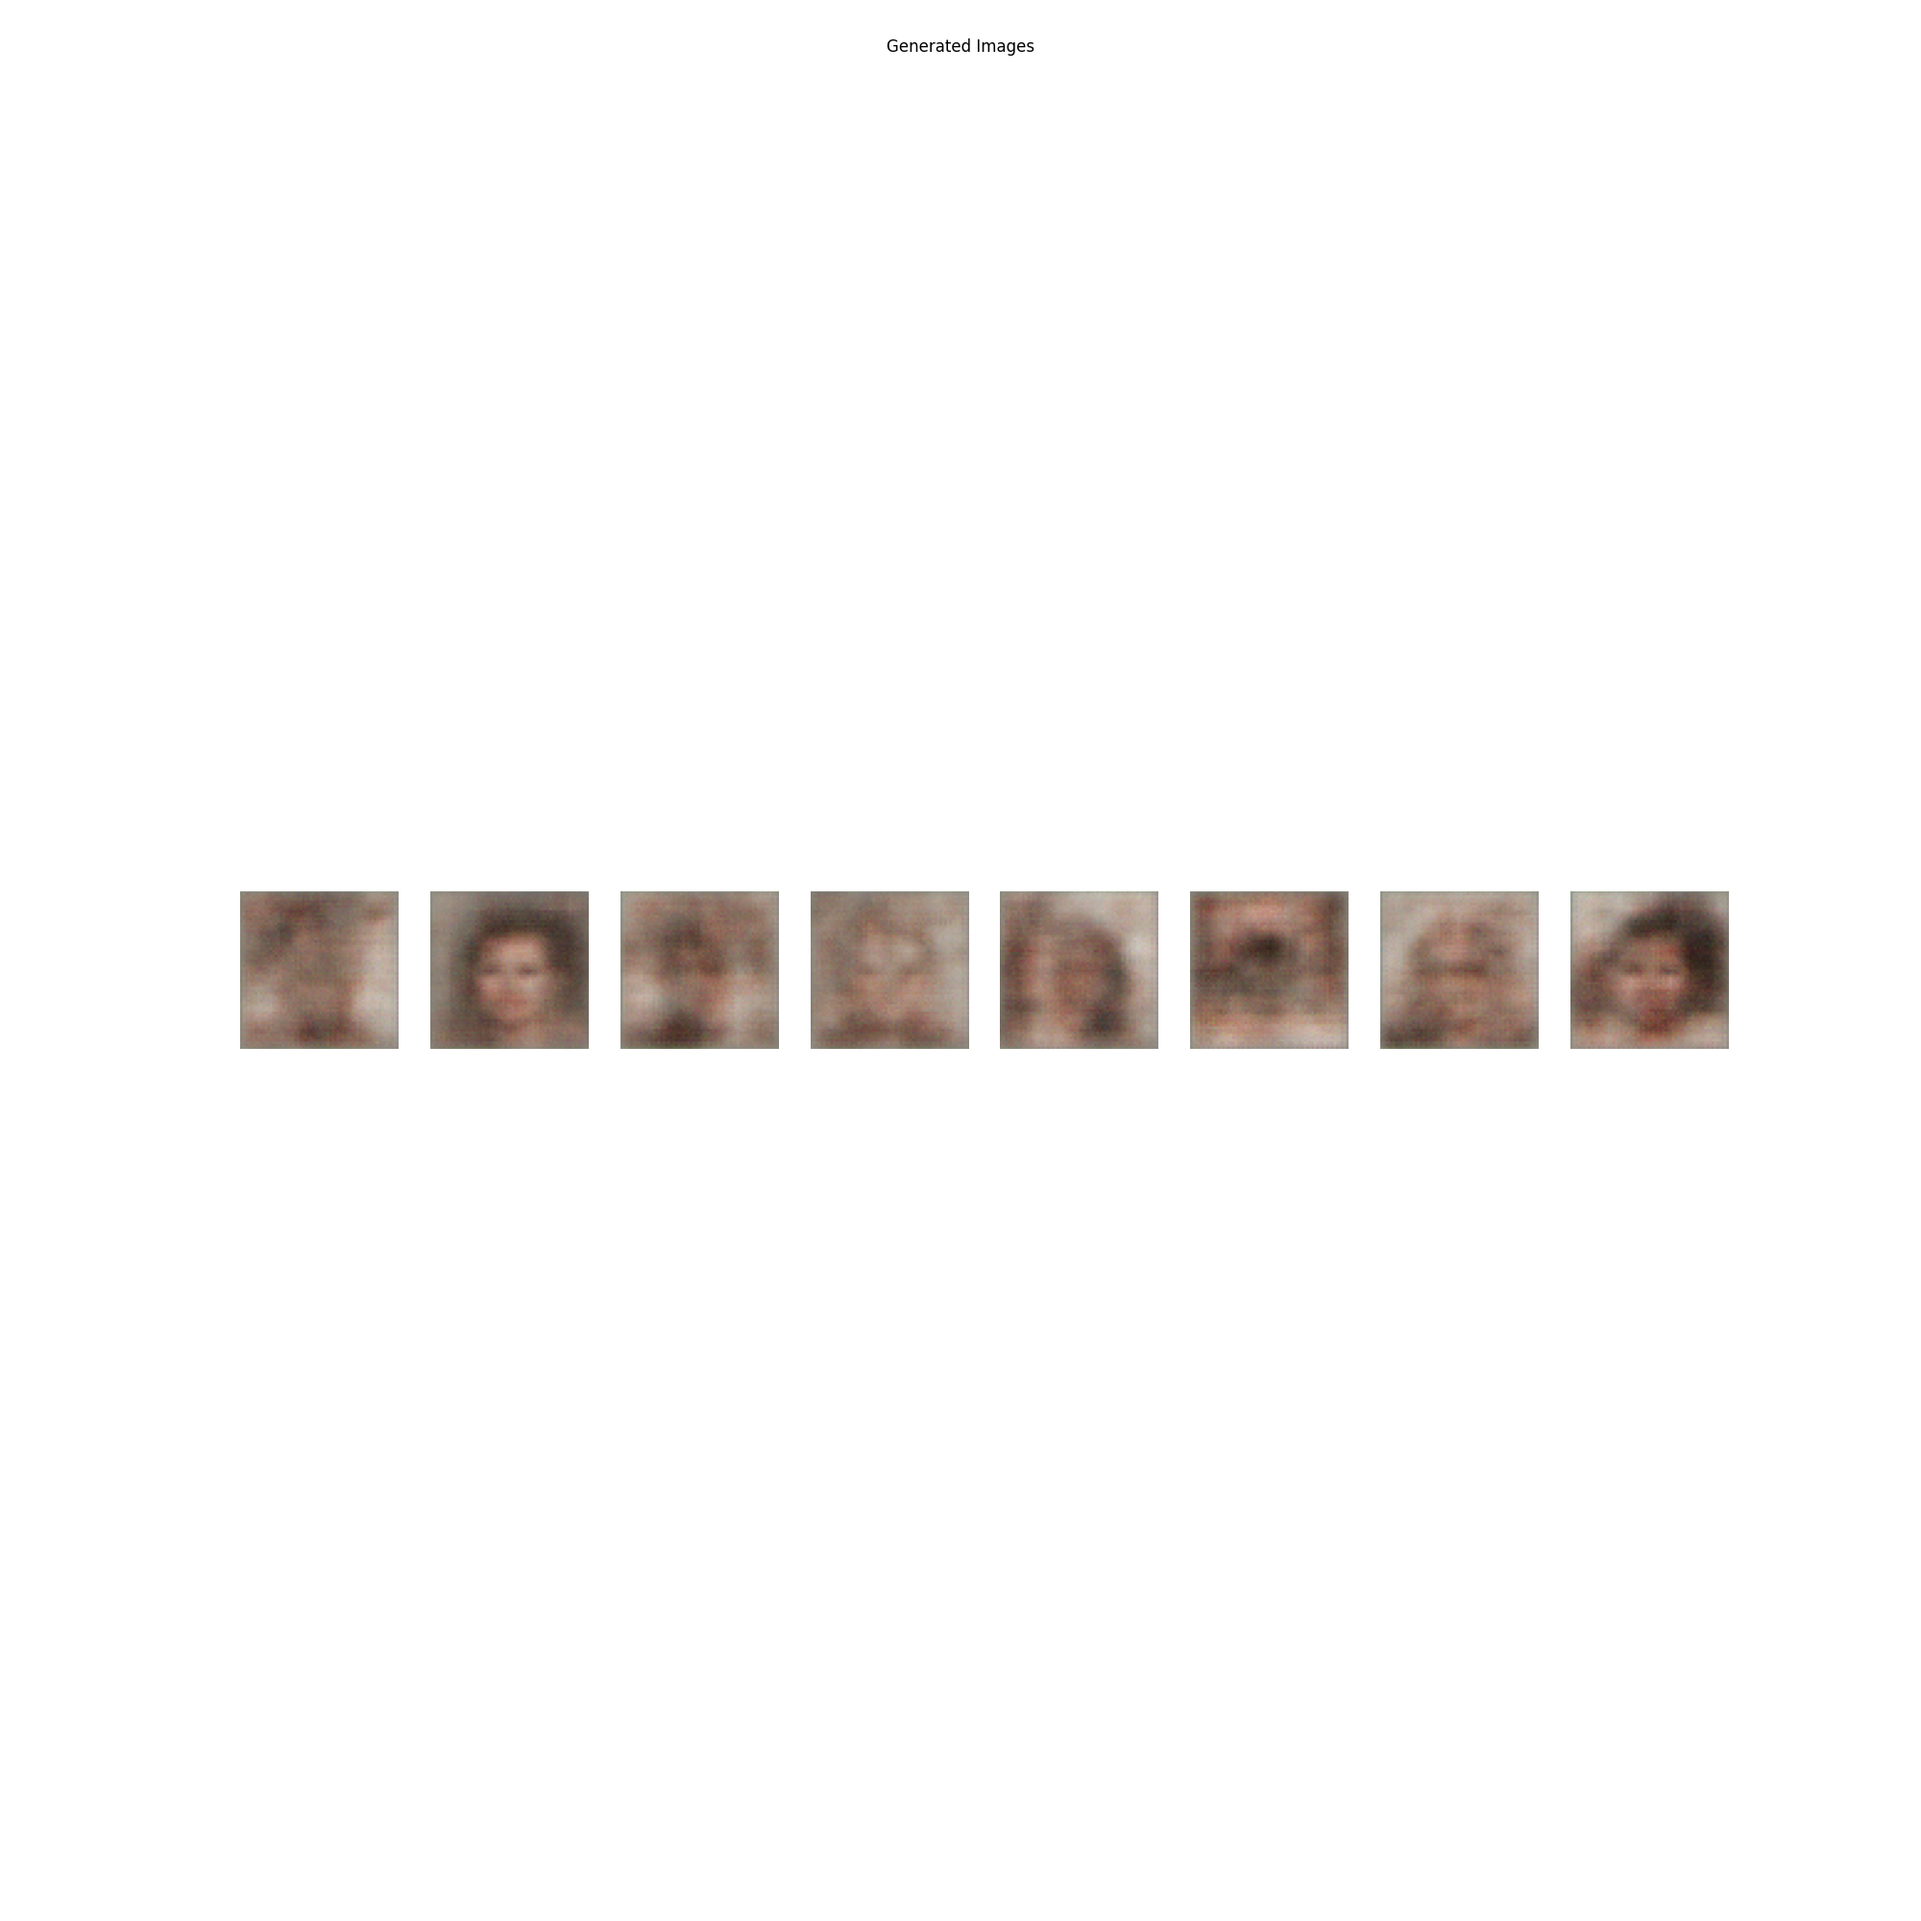
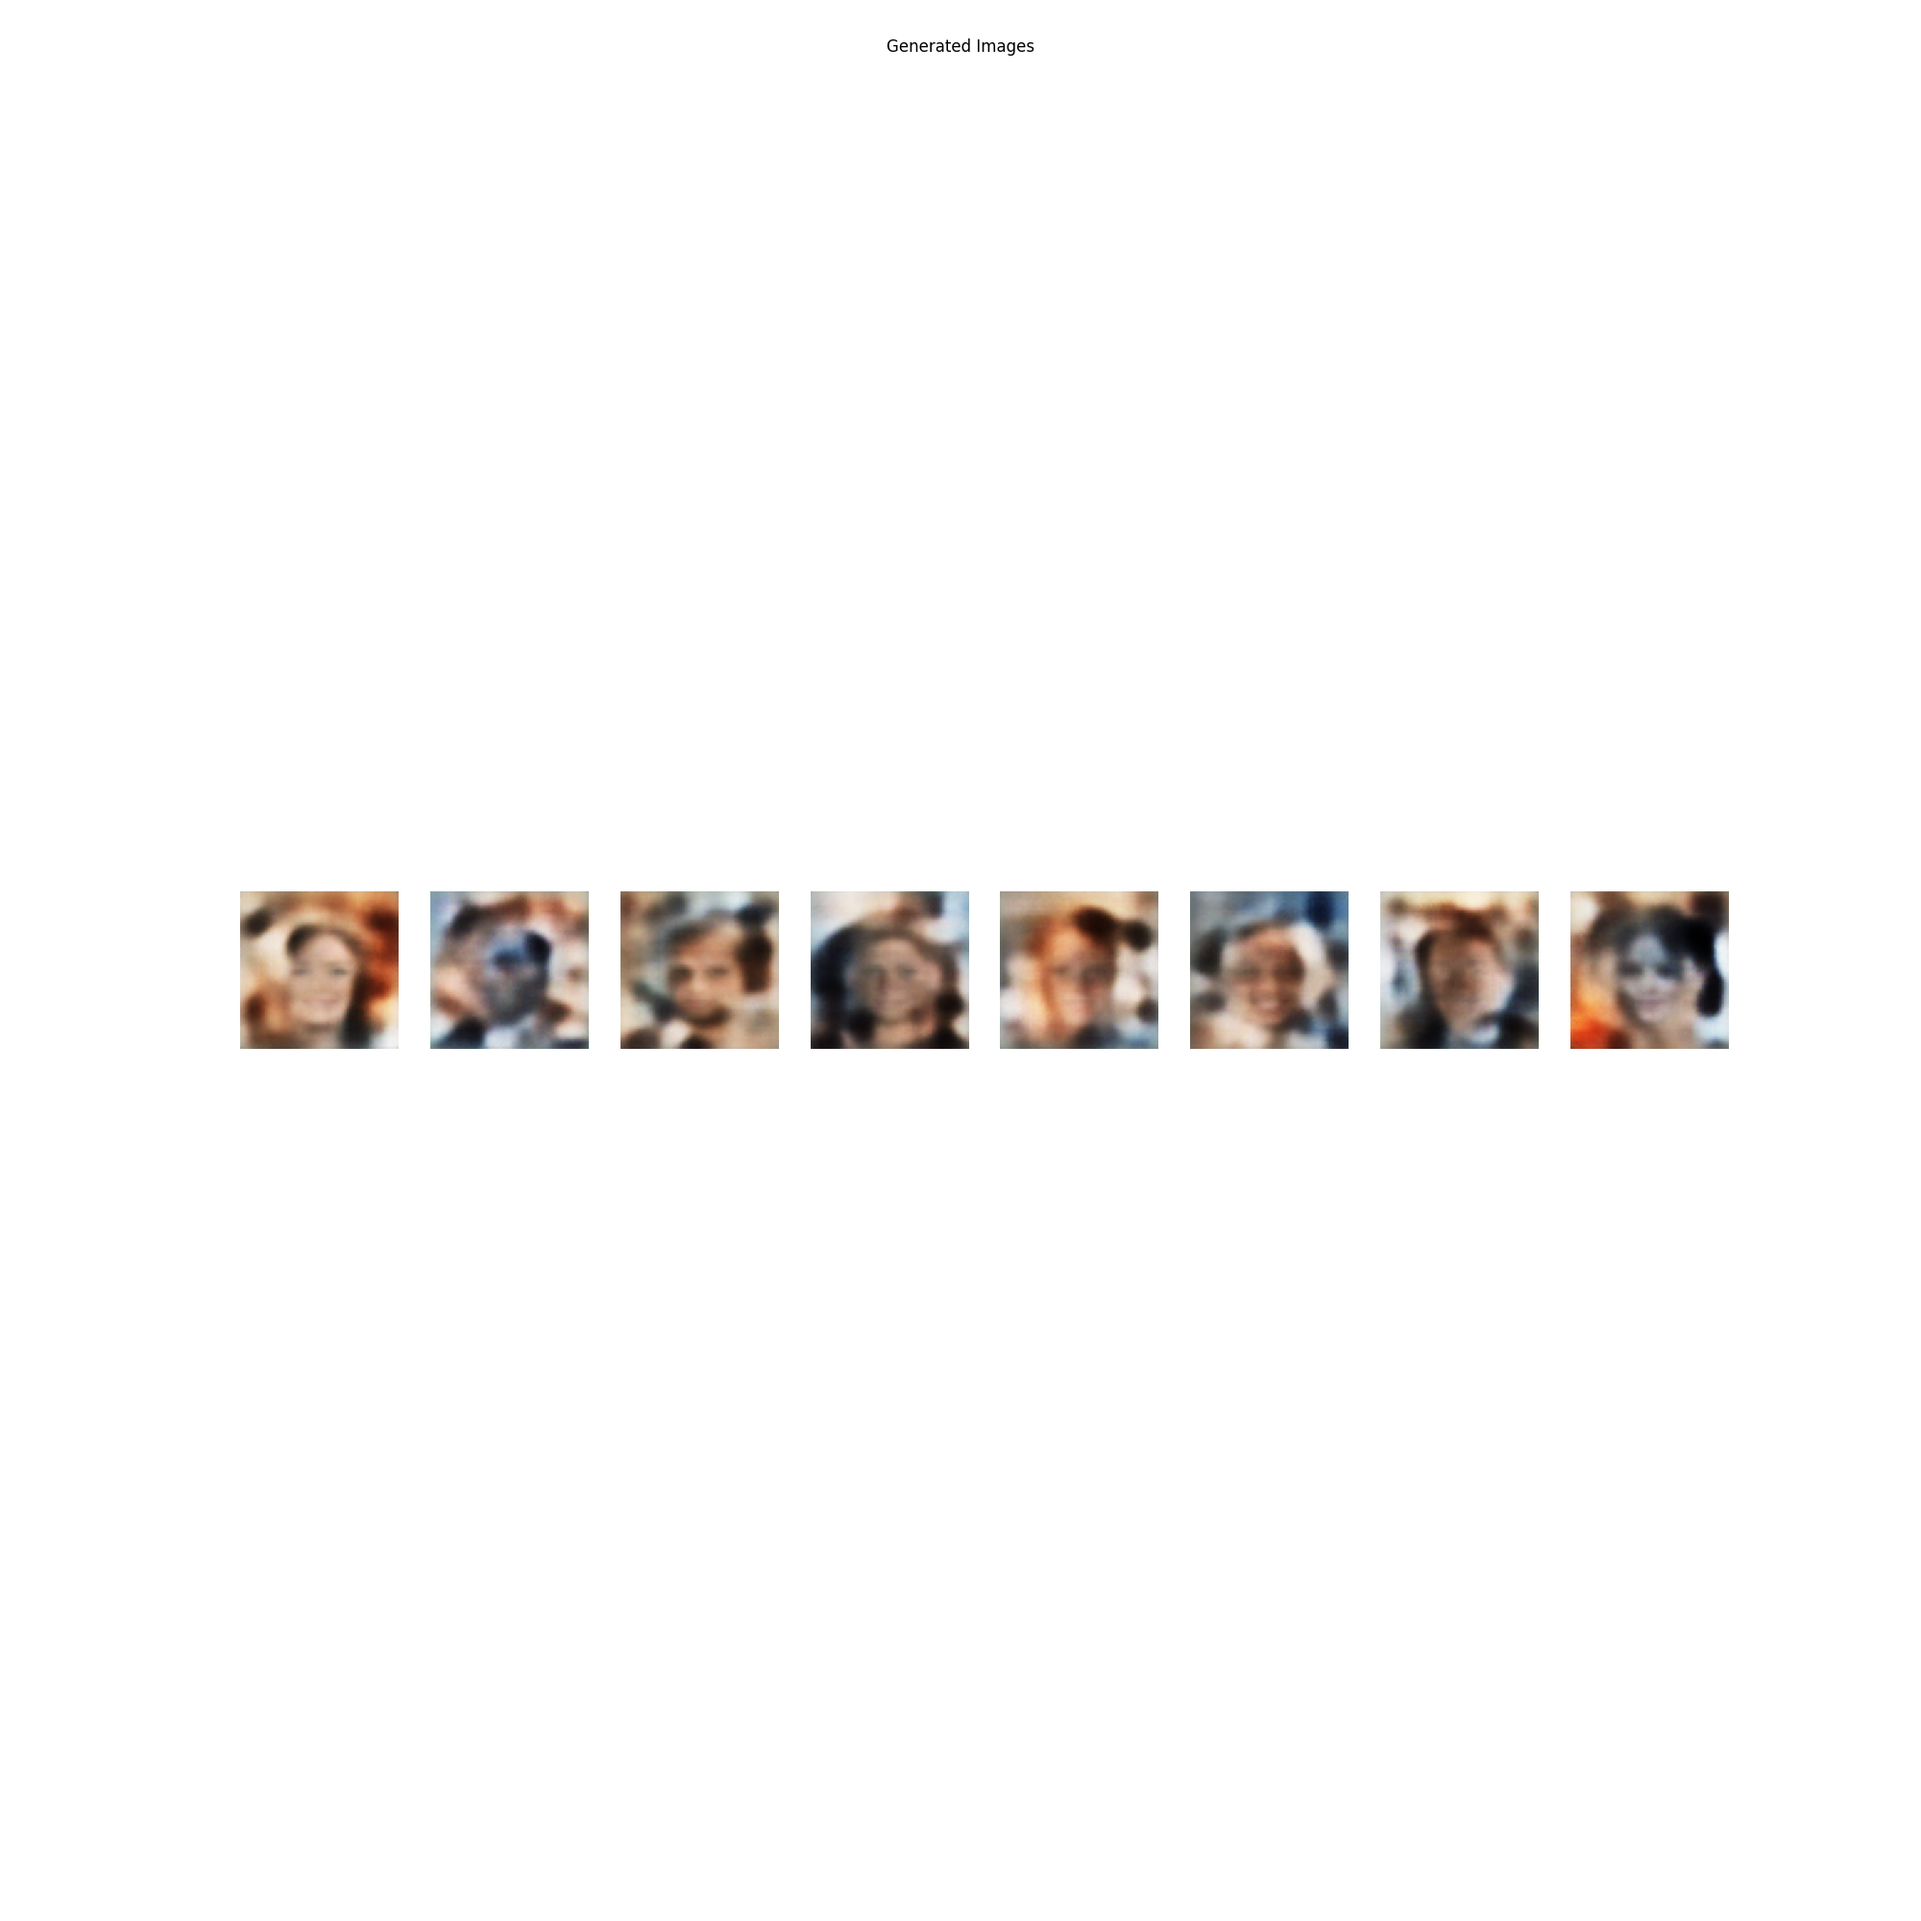
Refactor image resizing in dataloader and training loop

Changed region(s): [[0.124, 0.465, 0.899, 0.558]]

diff --git a/train.py b/train.py
@@ -17,8 +17,7 @@ def train_vae(epochs,dataloader,model,optimizer,device):
             total_loss += loss.item()
             optimizer.step()
             
-            if i%50 == 0:
-                print('Epoch: {} Batch: {} Loss: {}'.format(epoch,i,total_loss/(i+1)))
+        print('Epoch: {}, Loss: {}'.format(epoch+1,total_loss/len(dataloader)))
                 
                 
                 
@@ -26,7 +25,7 @@ def train_vae(epochs,dataloader,model,optimizer,device):
        
         
 if __name__ == '__main__':
-    device = torch.device('cuda:1' if torch.cuda.is_available() else 'cpu')
+    device = torch.device('cuda' if torch.cuda.is_available() else 'cpu')
     batch_size = 4096
     img_size = 64
     z_dim = 128
@@ -41,4 +40,4 @@ if __name__ == '__main__':
     train_vae(epochs,dataloader,model,optimizer,device)
     
     # save model
-    torch.save(model.state_dict(),'vae.pth')
+    torch.save(model.state_dict(),'vae1.pth')

diff --git a/dataloader.py b/dataloader.py
@@ -23,9 +23,11 @@ class CelebADataset(datasets.VisionDataset):
     
 def get_celeba_loader(batch_size,img_size,data_dir):
     transform = transforms.Compose([
-        transforms.Resize((img_size,img_size)),
+        # transforms.Resize((img_size,img_size)),
+        transforms.Resize(img_size),
+        transforms.CenterCrop(img_size),
         transforms.ToTensor(),
-        transforms.Normalize((0.5,0.5,0.5),(0.5,0.5,0.5))
+        # transforms.Normalize((0.5,0.5,0.5),(0.5,0.5,0.5))
     ])
     dataset = CelebADataset(data_dir,transform=transform)
     dataloader = DataLoader(dataset,batch_size=batch_size,shuffle=True)
